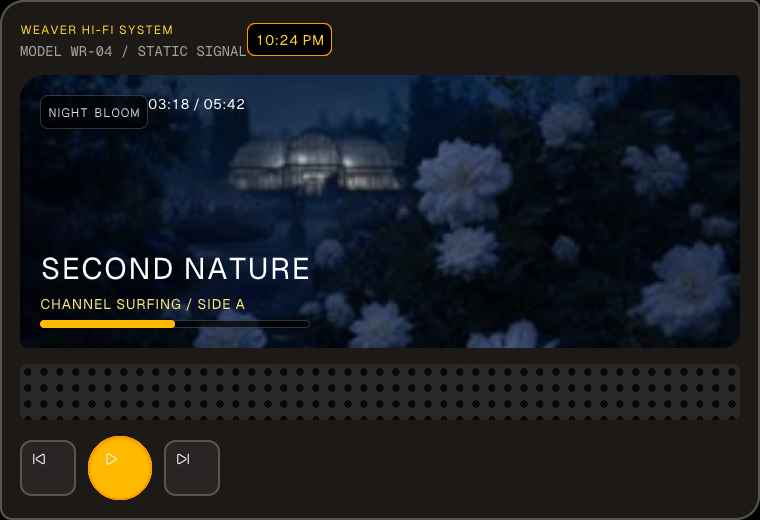
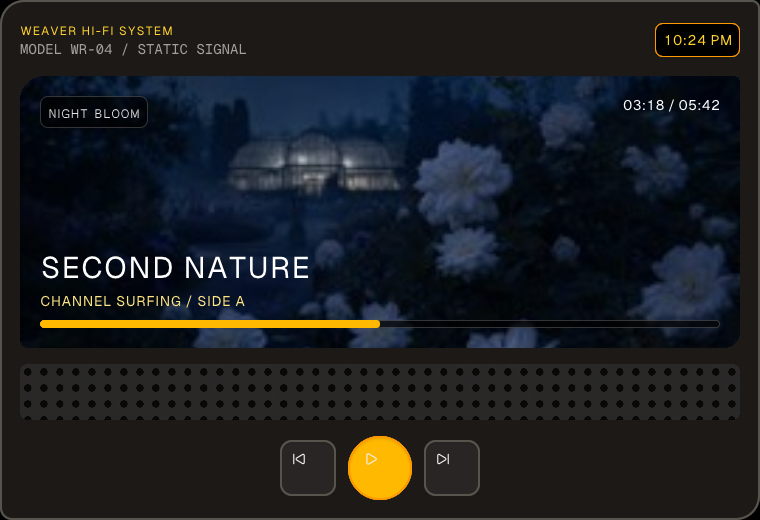
Record independent styling review repairs

diff --git a/docs/styling-run-status.md b/docs/styling-run-status.md
@@ -33,20 +33,28 @@ Updated: 2026-07-23 (Windows 11, unattended path-icon redesign)
 
 | Layer | Weaver | Native SDK fork | State |
 |---|---|---|---|
-| 01 / N1 | [`styling/01-spacing-sizing`](https://github.com/SunkenInTime/weaver/pull/19) at `e7648949` | [`styling/N1-layout-spacing`](https://github.com/SunkenInTime/native/pull/7) at `1a02e1599749f5dab7f366b6af6e0a80dd86e8b1` | complete, pushed, draft PRs open |
-| 02 / N2 | [`styling/02-flex-completeness`](https://github.com/SunkenInTime/weaver/pull/20) at `457c2dd9` | [`styling/N2-flex`](https://github.com/SunkenInTime/native/pull/8) at `83a92a0dae98d2bb66e6c94b7315a9cf29df20cf` | complete, pushed, draft PRs open |
-| 03 / N3 | [`styling/03-radii-borders`](https://github.com/SunkenInTime/weaver/pull/21) at `0cf86b8` | [`styling/N3-radii-borders`](https://github.com/SunkenInTime/native/pull/9) at `d4e8ac33e6510a0f6d776d4b49137183a02d0310` | complete, pushed, draft PRs open |
-| 04 | [`styling/04-palette`](https://github.com/SunkenInTime/weaver/pull/22) at `4438e8d` | none | complete, pushed, draft PR open |
-| 05 / N4 | [`styling/05-text-pack`](https://github.com/SunkenInTime/weaver/pull/23) at `dc41198` | [`styling/N4-text`](https://github.com/SunkenInTime/native/pull/10) at `9dc298d02799519c46cb8330e8021ff74d5cb0c5` | complete, pushed, draft PRs open |
-| 06 / N5 | [`styling/06-shadows`](https://github.com/SunkenInTime/weaver/pull/24) at `62938eb` | [`styling/N5-shadows`](https://github.com/SunkenInTime/native/pull/11) at `d744f423` (PR06 pins the shadow-complete `0fadeee5`; PR07 advances to the authorized font seam) | complete, pushed, draft PRs open |
-| 07 | [`styling/07-fonts`](https://github.com/SunkenInTime/weaver/pull/25) at `efa2ad8` | per-text selection follow-up in [N5](https://github.com/SunkenInTime/native/pull/11) at `d744f423` | complete, pushed, draft PR open |
-| 08 | [`styling/08-icons`](https://github.com/SunkenInTime/weaver/pull/26) at `d018948` | none (rides N5's PR07 font seam) | complete, pushed, draft PR open |
-| 09 / N6 | [`styling/09-stack-overflow`](https://github.com/SunkenInTime/weaver/pull/27) at `80ecf5d` | [`styling/N6-stack-overflow`](https://github.com/SunkenInTime/native/pull/12) at `b9ca6cd1` | complete, pushed, draft PRs open |
-| 10 / N7 | [`styling/10-image-v2`](https://github.com/SunkenInTime/weaver/pull/28) at `1e1ac07` | [`styling/N7-image-v2`](https://github.com/SunkenInTime/native/pull/13) at `adc097c0` | complete, pushed, draft PRs open |
-| 11 / N8 | [`styling/11-interaction`](https://github.com/SunkenInTime/weaver/pull/29) at `380dd0f` | [`styling/N8-interaction`](https://github.com/SunkenInTime/native/pull/14) at `80e74357` | complete, pushed, draft PRs open |
-| 12 | [`styling/12-showcase`](https://github.com/SunkenInTime/weaver/pull/30), implementation/evidence head `447fdeb` plus this ledger-only CI record | none | complete, pushed, draft PR open |
+| 01 / N1 | [`styling/01-spacing-sizing`](https://github.com/SunkenInTime/weaver/pull/19) at `af4dbf0` | [`styling/N1-layout-spacing`](https://github.com/SunkenInTime/native/pull/7) at `0e16af24` | complete, pushed, draft PRs open |
+| 02 / N2 | [`styling/02-flex-completeness`](https://github.com/SunkenInTime/weaver/pull/20) at `2a78bbc` | [`styling/N2-flex`](https://github.com/SunkenInTime/native/pull/8) at `d6389750` | complete, pushed, draft PRs open |
+| 03 / N3 | [`styling/03-radii-borders`](https://github.com/SunkenInTime/weaver/pull/21) at `0a8dd30` | [`styling/N3-radii-borders`](https://github.com/SunkenInTime/native/pull/9) at `d903766c` | complete, pushed, draft PRs open |
+| 04 | [`styling/04-palette`](https://github.com/SunkenInTime/weaver/pull/22) at `661f4bd` | none; retains N3 `d903766c` | complete, pushed, draft PR open |
+| 05 / N4 | [`styling/05-text-pack`](https://github.com/SunkenInTime/weaver/pull/23) at `636c1fc` | [`styling/N4-text`](https://github.com/SunkenInTime/native/pull/10) at `aa6eacd5` | complete, pushed, draft PRs open |
+| 06 / N5 | [`styling/06-shadows`](https://github.com/SunkenInTime/weaver/pull/24) at `f6a9f2a` | [`styling/N5-shadows`](https://github.com/SunkenInTime/native/pull/11) at `e1218fab` | complete, pushed, draft PRs open |
+| 07 | [`styling/07-fonts`](https://github.com/SunkenInTime/weaver/pull/25) at `fb58e77` | rides N5 `e1218fab` | complete, pushed, draft PR open |
+| 08 | [`styling/08-icons`](https://github.com/SunkenInTime/weaver/pull/26) at `619b0ec` | rides N5 `e1218fab` | complete, pushed, draft PR open |
+| 09 / N6 | [`styling/09-stack-overflow`](https://github.com/SunkenInTime/weaver/pull/27) at `92f101c` | [`styling/N6-stack-overflow`](https://github.com/SunkenInTime/native/pull/12) at `157c57b9` | complete, pushed, draft PRs open |
+| 10 / N7 | [`styling/10-image-v2`](https://github.com/SunkenInTime/weaver/pull/28) at `a0d567b` | [`styling/N7-image-v2`](https://github.com/SunkenInTime/native/pull/13) at `c40a351f` | complete, pushed, draft PRs open |
+| 11 / N8 | [`styling/11-interaction`](https://github.com/SunkenInTime/weaver/pull/29) at `86d12e3` | [`styling/N8-interaction`](https://github.com/SunkenInTime/native/pull/14) at `8d2b1cf4` | complete, pushed, draft PRs open |
+| 12 | [`styling/12-showcase`](https://github.com/SunkenInTime/weaver/pull/30), implementation head `0e29739` plus this ledger/capture update | rides N8 `8d2b1cf4` | complete, pushed, draft PR open |
 
 ## Completed gates
+
+### Independent-review repair rerun (final heads above)
+
+- Weaver PR01-PR12: every head passed `npm test`, `npm run typecheck`, `runtime/ zig build test -Dweb-layer=exclude -Dtrace=off`, and `npm run audit:release`. Node suites ranged from 25 to 49 tests; runtime suites all passed with the expected one platform skip. Exact per-head durations are retained in the run evidence log.
+- Native N1-N8: every head passed focused `zig build test-canvas -Dwidget-profile=true`, full stock `zig build test`, and full `zig build test -Dwidget-profile=true`. Focused durations were 34.9-47.4s; stock 74.1-110.4s; widget profile 54.0-103.8s.
+- All 12 PR examples were rebuilt ReleaseFast, passed `weaver check`, reached live status `running` for 20s, emitted no exception/crash/backoff/restart line, and left zero clone-owned host/widget processes. PR01-PR05 used `styling-spacing`; PR06-PR12 used their layer example, ending with `retro-player-shell`.
+- The final retro-player capture shows the overlay elapsed-time text at the far right. `widget.json` registers `GeistPixel-Square.ttf` as id 65, the exact-stem resolver selects it, and the live headline is rendered with `font-[GeistPixel-Square]`.
+- Resolved rerun defects: every branch-local release audit now names its exact restacked gitlink; PR04 no longer reintroduces the missing `p-[Npx]` return; N8 casts each interaction-presence bit to `usize` before addition, so simultaneous hover and pressed metadata cannot overflow.
 
 - Virgin Weaver `master` (`origin/master`): `npm test` PASS 22/22; `npm run typecheck` PASS; `runtime/ zig build test -Dweb-layer=exclude -Dtrace=off` PASS.
 - Native N1 focused: `zig build test-canvas -Dwidget-profile=true` PASS.
@@ -130,6 +138,10 @@ Updated: 2026-07-23 (Windows 11, unattended path-icon redesign)
 43. Per-corner Native style overrides use negative infinity as an in-band unset sentinel. Every finite value, including a negative author value that clamps to zero, remains semantically distinct; this reduces the common `WidgetStyle` from the original optional-corner design's 172 bytes to 156 bytes without weakening the hostile-arena test.
 44. N4 text styling is rare retained metadata, not common widget shape: a non-default text leaf gets one `WidgetTextStyle` command record, while default text and every non-text widget retain the N3 728-byte `Widget` and allocate no metadata. Later font, shadow, hover, and pressed records share that bounded slice and preserve authored order independently of drawing commands.
 45. The N3 ARM regression is repaired by allocation accuracy rather than a larger hostile bound or lossy radius storage: source-line counts are safe upper bounds because every parsed block/list item/table row consumes at least one source line. Capacity caps and truncation behavior remain identical, while short containers no longer reserve their full 64-node maximum.
+46. Numeric utilities use 1,000,000 logical units as the explicit absurd-value ceiling. This is far above the bounded widget surface while preventing finite exponential literals from becoming unusable layout magnitudes; non-finite values are always rejected.
+47. Native preserves backward compatibility for direct callers that historically used positive zero as an unbounded maximum by encoding Weaver's explicit `max-w-0`/`max-h-0` as negative zero internally. Preferred width/height presence is carried in the existing packed layout flags, so authored zero is distinct from unset without growing `Widget`.
+48. The lowered-budget check expands discoverable local JSX component return roots and conservatively checks each static root. Dynamic loop multiplicity and opaque `props.children` cannot be proven by the TypeScript AST; those cases remain bounded by the unchanged Native runtime limits, while every statically expressible painted row/column contributes its real extra node/depth.
+49. D3D supports the current v7 solid shape/line subset, including per-corner rounded rectangles. Current-layout commands requiring rounded command clips, gradients, text, effects, or images deliberately return `false` to the existing per-command CPU fallback rather than being approximated or causing the whole GPU-backed widget to silently demote.
 
 ## UNVERIFIED / BLOCKED
 

diff --git a/docs/styling-breadth-results.md b/docs/styling-breadth-results.md
@@ -20,6 +20,31 @@ stacks. Weaver is based on `master`; Native is based on `weaver-main`.
 | 11 / N8 | [#29 interaction](https://github.com/SunkenInTime/weaver/pull/29) | [#14 interaction](https://github.com/SunkenInTime/native/pull/14) |
 | 12 | [#30 retro player showcase](https://github.com/SunkenInTime/weaver/pull/30) | none |
 
+## Independent-review repairs
+
+| Finding | Lowest layer | Final result |
+|---:|---|---|
+| 1 | Native N5 | Windows D3D decodes packet v7, parses the current header/command layout, renders per-corner solid rounded rectangles, and retains CPU fallback for unsupported command features. The build ratchet pins encoder, D3D, and AppKit versions together. |
+| 2 | Weaver 06 | `attachEffects` copies existing rare-command metadata before appending box/text shadows and font ids. Exact tests cover text style plus text shadow and hover/pressed plus box shadow. |
+| 3 | Native N1 / Weaver 01 | Width/height are optional preferred flex bases, min/max remain independent clamps, default shrink can compress, grow can expand, and authored zero is distinct from unset. |
+| 4 | Weaver 02 | Cross-axis default is `stretch` through compiler, reconciler, retained tree, and Native projection; explicit `items-*` still wins. |
+| 5 | Weaver 03 | Painted row/column lowering copies `flex_wrap` onto the inner layout node. |
+| 6 | Weaver 03 | `weaver check` computes painted-lowered node/depth counts against Native limits 128/32 and emits `LoweredWidgetNodeLimit` or `LoweredWidgetDepthLimit` before runtime. |
+| 7 | Weaver 01 and PR04 regression repair | `p-[Npx]` returns after compilation; its regression test passes at every final descendant. |
+| 8 | Native N2 | Grow and shrink use bounded freeze-and-redistribute loops, including redistribution after max/min clamps. |
+| 9 | Native N5 | Non-layout, hot-swap, hover, and pressed invalidation unions old/new `widgetShadowPaintBounds`, preventing stale halo pixels. |
+| 10 | Native N6 | Stack percentages resolve from the parent content box; margins inset placement afterward. |
+| 11 | Native N2 | Wrapped self-stretch measures intrinsic line cross size first and stretches only within that line's band. |
+| 12 | Weaver 01 | Central numeric parsing rejects non-finite/absurd values; zero or invalid aspect ratios are check errors. |
+| 13 | Weaver 01 contract | Contract states: utilities apply left to right; the last conflicting utility wins. |
+| 14 | Weaver 05 | Named text sizes carry Tailwind paired defaults (`sm` 14/20, etc.); explicit `leading-*` overrides the pair. |
+| 15 | Weaver 07 contract | Contract states that an exact file-stem match wins over family/weight resolution. |
+
+The review rerun also fixed one deeper N8 defect exposed by the new composition
+test: simultaneous hover and pressed metadata previously added two inferred
+one-bit integers and overflowed in Debug. N8 now widens each presence bit to
+`usize` before addition and has a direct two-style regression test.
+
 ## Acceptance anchor
 
 `examples/retro-player-shell` is static and subscribes to no provider. It uses
@@ -77,6 +102,11 @@ Win32 `PrintWindow` and visually inspected. The computer-control plugin's
 native pipe was unavailable on this host. macOS physical pixels remain
 `UNVERIFIED (needs Mac)`; headless CI is compile/test evidence, not a physical
 pixel claim.
+
+Independent-review re-verification: PASS. The overlay row now spans the cover
+and places `03:18 / 05:42` at the far right. The live bundle registers
+`GeistPixel-Square.ttf` as font id 65; exact-stem resolution selects that face,
+and `SECOND NATURE` renders through `font-[GeistPixel-Square]` in the capture.
 
 ## Contract and verification
 